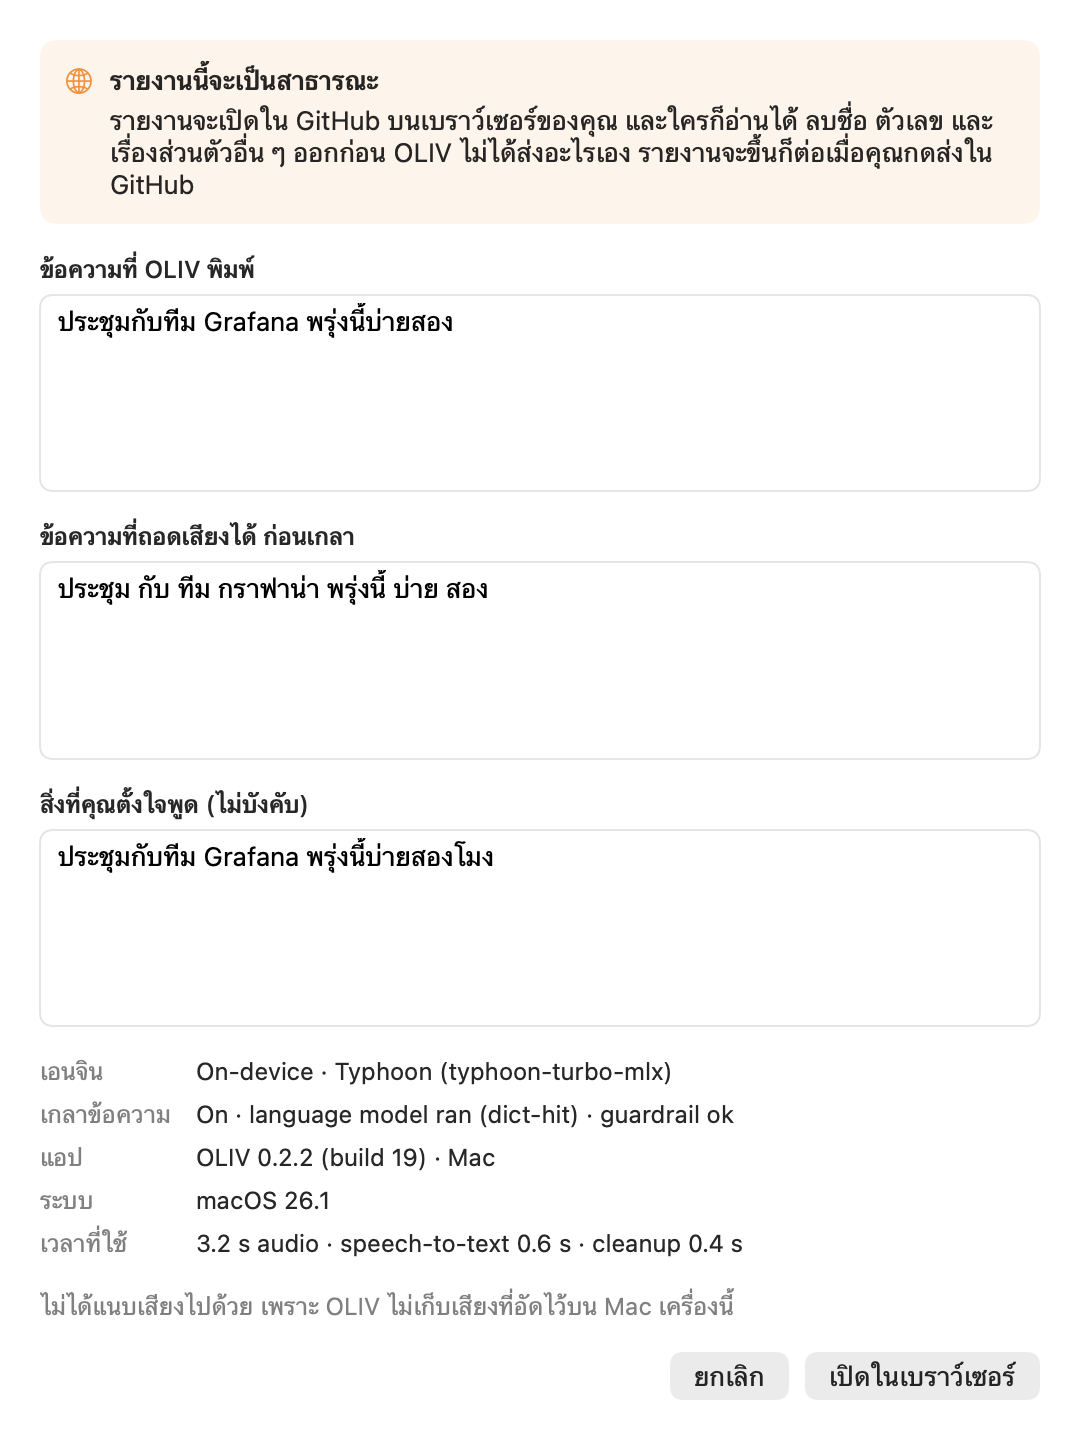
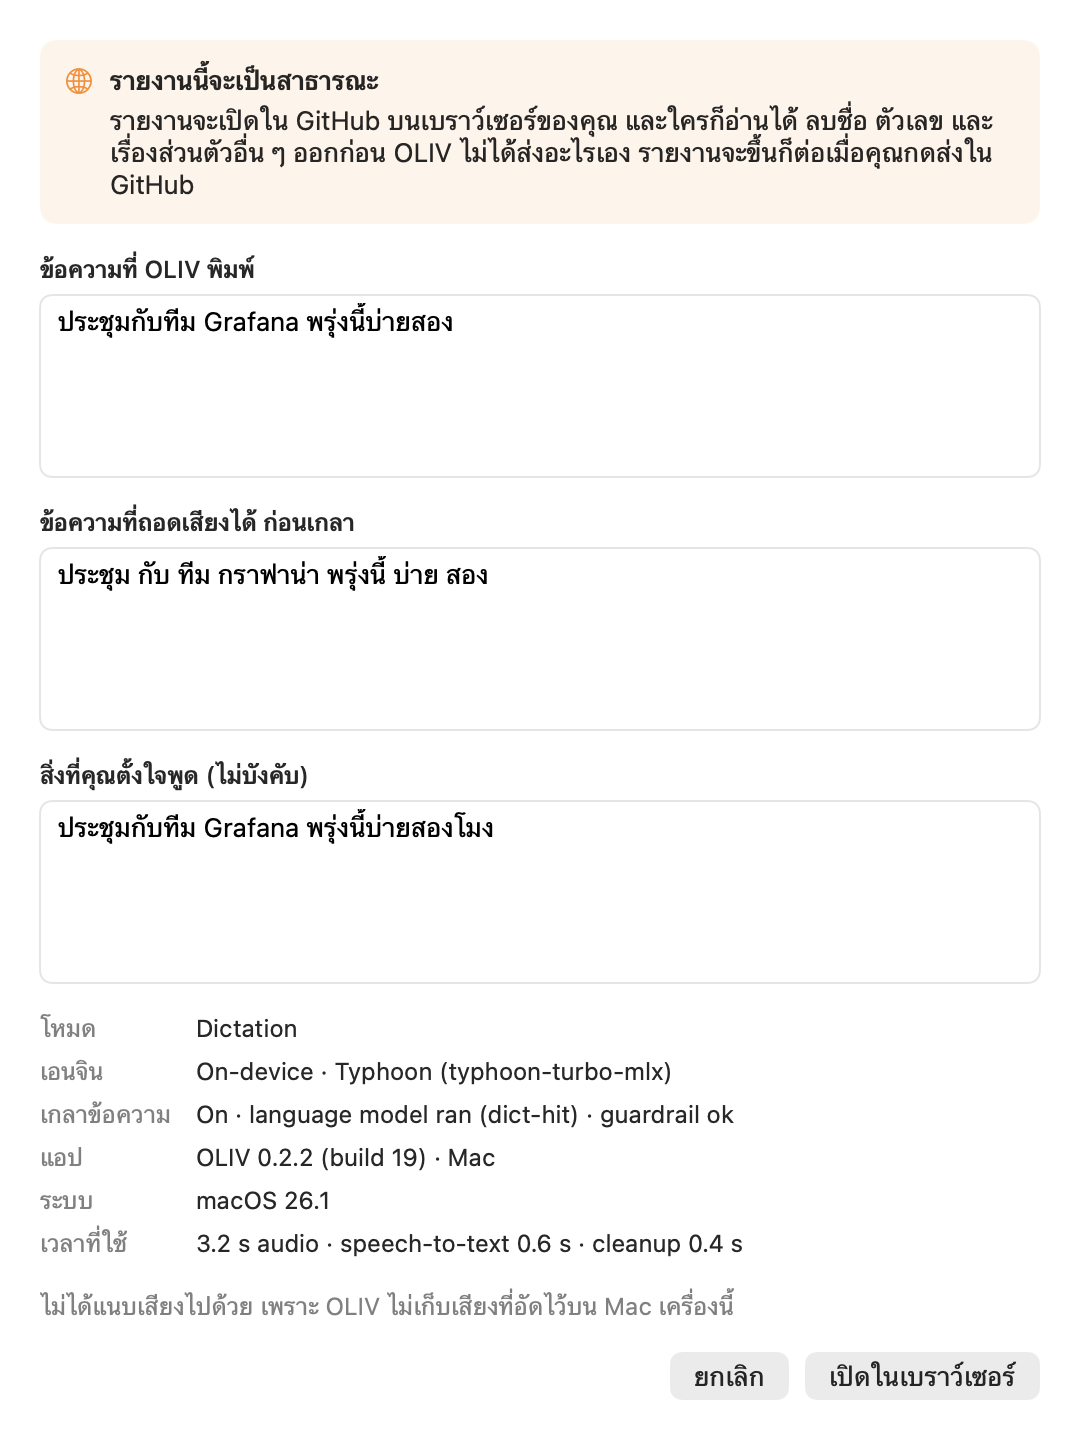
Mac: wrong-result reports about an edit, in Thai
The report preview's labels for Command mode and translation (Mode,
Selected text, Instruction (heard), Result, the instruction's raw
transcript, What you expected, Thai that was translated) have Thai,
worded like the rest of the report window. The report itself stays
English. The screenshot test also renders a Command mode report, and the
Thai report-preview pictures are refreshed (the Mode row is new).

diff --git a/macos/OLIVTests/InterfaceScreenshotTests.swift b/macos/OLIVTests/InterfaceScreenshotTests.swift
@@ -231,6 +231,18 @@ final class InterfaceScreenshotTests: XCTestCase {
         draft.typed = String(repeating: "ข้อความยาวมาก ", count: 600)
         try render(ResultReportView(draft: draft, onClose: {}), size: CGSize(width: 540, height: 760),
                    name: "report-preview-truncated")
+        // A Command mode edit: selection, instruction and result, each labelled.
+        details.raw = "ทำ ให้ สุภาพ ขึ้น"
+        details.voiceEdit = TranscriptLog.VoiceEdit(
+            mode: .command, heard: "ทำให้สุภาพขึ้น", selection: "ส่งไฟล์ deck มาด่วนเลย ลูกค้าจะเอาบ่ายนี้",
+            applied: true, flag: "ok")
+        let edit = TranscriptLog.Entry(text: "รบกวนช่วยส่งไฟล์ deck มาให้หน่อยนะครับ ลูกค้าต้องการภายในบ่ายนี้ครับ",
+                                       details: details)
+        let command = ResultReportDraft(
+            report: ResultReport.mac(entry: edit, appVersion: "0.2.2", build: "19", macOSVersion: "Version 26.1"),
+            open: { _ in XCTFail("nothing opens from a render") })
+        try render(ResultReportView(draft: command, onClose: {}), size: CGSize(width: 540, height: 820),
+                   name: "report-preview-command")
     }
 
     func testMenu() throws {
